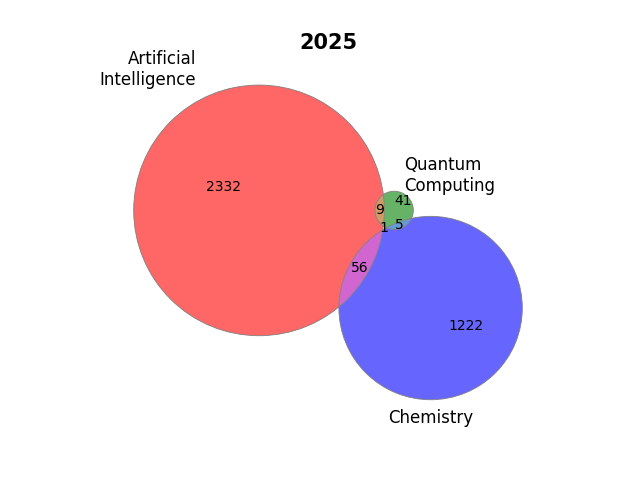
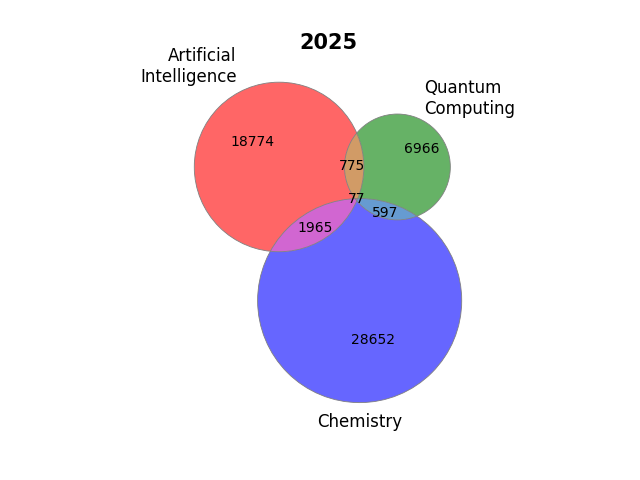
feat: update plots and README

Changed region(s): [[0.1562, 0.0938, 0.8438, 0.9062], [0.3438, 0.2812, 0.4375, 0.3125]]

diff --git a/paperscraper/postprocessing.py b/paperscraper/postprocessing.py
@@ -71,6 +71,8 @@ def aggregate_paper(
         year = int(date.split("-")[0])
         if year < start_year or year > last_year:
             continue
+        title = str(paper.get("title") or "").lower()
+        abstract = str(paper.get("abstract") or "").lower()
 
         # At least one synonym per keyword needs to be in either title or
         # abstract.
@@ -78,13 +80,9 @@ def aggregate_paper(
             # Filter out papers which undesired terms
             unwanted = False
             for unwanted_key in unwanted_keys:
-                if unwanted_key.lower() in paper["title"].lower():
+                if unwanted_key.lower() in title:
                     unwanted = True
-                if (
-                    filter_abstract
-                    and paper["abstract"] is not None
-                    and unwanted_key.lower() in paper["abstract"].lower()
-                ):
+                if filter_abstract and unwanted_key.lower() in abstract:
                     unwanted = True
             if unwanted:
                 continue
@@ -95,13 +93,9 @@ def aggregate_paper(
                 if not isinstance(key_term, list):
                     key_term = [key_term]
                 for key in key_term:
-                    if key.lower() in paper["title"].lower():
+                    if key.lower() in title:
                         got_key = True
-                    if (
-                        filter_abstract
-                        and paper["abstract"] is not None
-                        and key.lower() in paper["abstract"].lower()
-                    ):
+                    if filter_abstract and key.lower() in abstract:
                         got_key = True
                 got_keys.append(got_key)
 

diff --git a/paperscraper/utils.py b/paperscraper/utils.py
@@ -72,5 +72,5 @@ def load_jsonl(filepath: str) -> List[Dict[str, str]]:
     """
 
     with open(filepath, "r") as f:
-        data = [json.loads(line) for line in f.readlines()]
+        data = [json.loads(line) for line in f if line.strip()]
     return data

diff --git a/README.md b/README.md
@@ -385,13 +385,15 @@ plot_comparison(
 
 ### Venn Diagrams
 
+The Venn diagrams below use the local arXiv, bioRxiv, ChemRxiv and medRxiv dumps.
+
 ```py
 from paperscraper.plotting import (
     plot_venn_two, plot_venn_three, plot_multiple_venn
 )
 
-sizes_2024 = (2008, 27, 0)
-sizes_2025 = (2332, 41, 9, 1222, 56, 5, 1)
+sizes_2024 = (18762, 6324, 624)
+sizes_2025 = (18774, 6966, 775, 28652, 1965, 597, 77)
 labels_2024 = ['Artificial\nIntelligence', 'Quantum\nComputing']
 labels_2025 = ('Artificial\nIntelligence', 'Quantum\nComputing', 'Chemistry')
 
